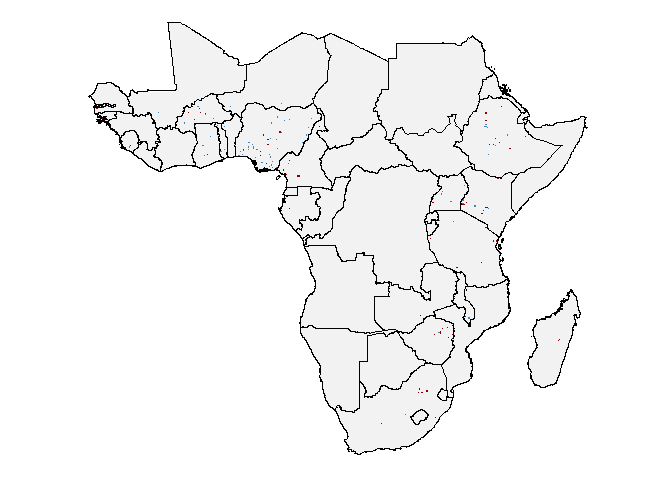
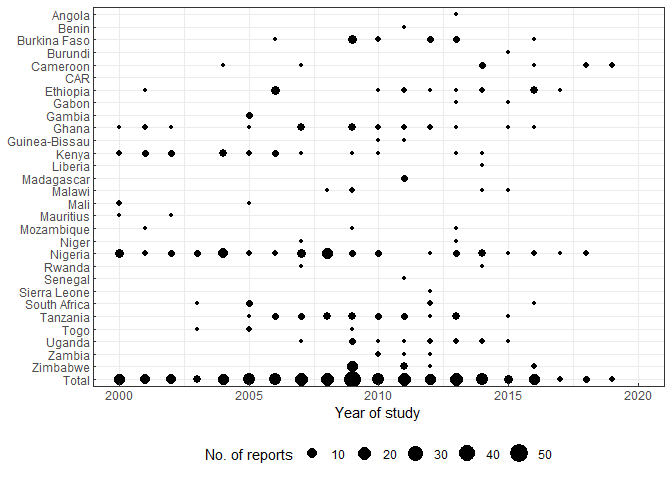
README updated

diff --git a/README.md b/README.md
@@ -9,7 +9,10 @@ Africa
 source("R/util.R") # this has ggplot theme, theme_map() 
 library(tidyverse) # dplyr and ggplot2 packages are used
 library(data.table) # fread function
-library(raster) # we sometimes added the pkg name to the command for clarity
+library(raster) # raster 
+library(countrycode) # iso3c codes
+library(sf) # st_contains function to check if the point is inside a polygon
+library(gridExtra) # multiple plots on a single page
 ```
 
 #### Figure 2A
@@ -50,7 +53,7 @@ p
 #### Figure 2B
 
 ``` r
-d %>% 
+d %>%
   group_by(COUNTRY, YEAR_PUBLICATION) %>%
   summarize(count=n()) -> d_co_yr
 
@@ -67,14 +70,14 @@ cntry_labels <- cntry_ordered
 cntry_labels[6] <- "CAR" # abbreviation for better displaying
 cntry_labels[25] <- "Tanzania" # abbreviation for better displaying
 
-p <- ggplot(data = d_co_yr) + 
+p <- ggplot(data = d_co_yr) +
   geom_point(aes(x = YEAR_PUBLICATION, y = COUNTRY, size = count)) +
   scale_size_continuous(limits = c(1, 50)) +
   scale_x_continuous(breaks = seq(2000, 2020, by=5), limits = c(2000, 2020)) +
-  scale_y_discrete(breaks = cntry_ordered, labels = cntry_labels) + 
+  scale_y_discrete(breaks = cntry_ordered, labels = cntry_labels) +
   labs(x="Year of publication", y = NULL, size="No. of reports" ) +
-  theme_bw() + 
-  theme(axis.ticks.length=unit(-2.75, "pt"), 
+  theme_bw() +
+  theme(axis.ticks.length=unit(-2.75, "pt"),
         legend.position = "bottom")
 p
 ```
@@ -83,11 +86,51 @@ p
 
 ``` r
 # fac <- 1.8
-# ggsave(paste0("plots/study_freq_yr_cntry_", tstamp(), ".png"), p, 
-#        width = 3.4*fac, height = 2.7*fac, units="in") 
+# ggsave(paste0("plots/study_freq_yr_cntry_", tstamp(), ".png"), p,
+#        width = 3.4*fac, height = 2.7*fac, units="in")
 ```
 
-### Figure 3
+#### Figure 2C
+
+``` r
+d %>% 
+  group_by(COUNTRY, STUDY_DATE_BEGIN) %>%
+  summarize(count=n()) -> d_co_yr
+
+d %>%
+  group_by(STUDY_DATE_BEGIN) %>%
+  summarize(count = n()) -> d_tot
+
+d_tot$COUNTRY <- "Total"
+d_co_yr <- bind_rows(d_co_yr, d_tot)
+cntry_ordered <- unique(d_co_yr$COUNTRY)
+d_co_yr$COUNTRY <- factor(d_co_yr$COUNTRY, levels = rev(cntry_ordered))
+
+cntry_labels <- cntry_ordered
+cntry_labels[6] <- "CAR" # abbreviation for better displaying
+cntry_labels[25] <- "Tanzania" # abbreviation for better displaying
+
+p <- ggplot(data = d_co_yr) + 
+  geom_point(aes(x = STUDY_DATE_BEGIN, y = COUNTRY, size = count)) +
+  scale_size_continuous(limits = c(1, 50)) +
+  scale_x_continuous(breaks = seq(2000, 2020, by=5), limits = c(2000, 2020)) +
+  scale_y_discrete(breaks = cntry_ordered, labels = cntry_labels) + 
+  labs(x="Year of study", y = NULL, size="No. of reports" ) +
+  theme_bw() + 
+  theme(axis.ticks.length=unit(-2.75, "pt"), 
+        legend.position = "bottom")
+p
+```
+
+![](README_files/figure-gfm/unnamed-chunk-4-1.png)<!-- -->
+
+``` r
+fac <- 1.8
+ggsave(paste0("plots/study_freq_stydtyr_cntry_", tstamp(), ".png"), p,
+       width = 3.4*fac, height = 2.7*fac, units="in")
+```
+
+#### Figure 3A
 
 Plot the grid cells of typhoid occurrence on the map
 
@@ -149,8 +192,144 @@ p <- ggplot(rptsdf) +
 p
 ```
 
-![](README_files/figure-gfm/unnamed-chunk-4-1.png)<!-- -->
+![](README_files/figure-gfm/unnamed-chunk-5-1.png)<!-- -->
 
 ``` r
 # ggsave(paste0("figs/occ_grids_", tstamp(), ".png"), p, width=7.7, height=7.3, units="in")
 ```
+
+#### Figure 3B-D
+
+Plot the grid cells of typhoid occurrence on the map of Nigeria
+
+``` r
+rst <- readRDS("data/elevation_20km_africa.rds")
+afss <- readRDS("data/africa_sub_Sahara_adm0_shp.rds")
+
+dculture <- d[grepl("culture", DIAGNOSTIC_METHOD_SUMMARY, ignore.case = TRUE)]
+dother <-  d[!grepl("culture", DIAGNOSTIC_METHOD_SUMMARY, ignore.case = TRUE)]
+
+# culture-based occurrence
+dculture %>% 
+  filter(!is.na(LONGITUDE)) %>% 
+  distinct(LONGITUDE, .keep_all = TRUE) -> dculture2
+
+# occurrence matrix
+occmat <- data.frame(X = as.double(dculture2$LONGITUDE),
+                     Y = as.double(dculture2$LATITUDE))
+occmat <- occmat[!is.na(occmat$X) & !is.na(occmat$Y), ]
+
+dother %>%
+  mutate(LONGITUDE=as.double(LONGITUDE), LATITUDE=as.double(LATITUDE)) %>%
+  filter(!is.na(LONGITUDE) & !is.na(LATITUDE)) %>% 
+  distinct(LONGITUDE, .keep_all = TRUE) -> dother2
+
+occmat2 <- data.frame(X = dother2$LONGITUDE, Y = dother2$LATITUDE)
+occmat2 <- occmat2[!is.na(occmat2$X) & !is.na(occmat2$Y), ]
+
+cnames <- c("Nigeria", "Kenya", "Tanzania, United Republic of") 
+plist <- vector("list", length(cnames))
+for (ii in 1:length(cnames)){
+  cname <- cnames[ii]
+  iso3c <- countrycode(cname, 'country.name', 'iso3c')
+  cntry <- afss[afss$NAME_0 == cname,]
+  r <- crop(rst, extent(cntry), snap="out")                
+  # r <- mask(r, cntry)
+  r <- setValues(r, 0)
+  # set the value to 1 for the grid cell of culture-based occurrence
+  for (i in 1:nrow(occmat)){
+    cells <- raster::extract(r, occmat[i,], df=TRUE, cellnumbers=TRUE)
+    raster::values(r)[unlist(cells$cell)] <- 1 
+  }
+  
+  # set the value to 2 for the grid cells of non-culture-based occurrence
+  for (i in 1:nrow(occmat2)){
+    cells <- raster::extract(r, occmat2[i,], df = TRUE, cellnumbers = TRUE)
+    values(r)[unlist(cells$cell)] <- 2 
+  }
+  
+  ## masks the grids that are outside the polygon
+  r <- mask(r, cntry)
+  
+  rpts <- rasterToPoints(r)
+  rptsdf <- as.data.frame(rpts)
+  colnames(rptsdf) <- c("lon", "lat", "occ")
+  rptsdf$occ <- as.factor(rptsdf$occ)
+  
+  p <- ggplot(rptsdf) +
+    geom_raster(aes(lon, lat, fill=occ)) +
+    scale_fill_manual(values=c("grey95", "darkred", "steelblue"), guide="none") +
+    geom_polygon(data = cntry, aes(long, lat, group = group), 
+                 fill = NA, inherit.aes = FALSE) +
+    geom_path(data = cntry, aes(long, lat, group = group),
+              color = "black", inherit.aes = FALSE) +
+    coord_equal() + 
+    theme_map() + 
+    theme(legend.title = element_text(size=12), 
+          legend.text = element_text(size=12))+
+    ggtitle(iso3c)
+  
+  p
+  plist[[ii]] <- p
+# ggsave(paste0("figs/occ_grids_", iso3c, "_", tstamp(), ".png"), p, width=7.7, height=7.3, units="in")
+}
+grid.arrange(plist[[1]], plist[[2]], plist[[3]], nrow=2)
+```
+
+![](README_files/figure-gfm/unnamed-chunk-6-1.png)<!-- -->
+
+### Number of points for the country
+
+``` r
+afss <- readRDS("data/africa_sub_Sahara_adm0_shp.rds")
+dculture <- d[grepl("culture", DIAGNOSTIC_METHOD_SUMMARY, ignore.case = TRUE)]
+dother <-  d[!grepl("culture", DIAGNOSTIC_METHOD_SUMMARY, ignore.case = TRUE)]
+
+# culture-based occurrence
+dculture %>% 
+  filter(!is.na(LONGITUDE)) %>% 
+  distinct(LONGITUDE, .keep_all = TRUE) -> dculture2
+
+# occurrence matrix
+occmat <- data.frame(X = as.double(dculture2$LONGITUDE),
+                     Y = as.double(dculture2$LATITUDE))
+occmat <- occmat[!is.na(occmat$X) & !is.na(occmat$Y), ]
+# conver the data frame to a spatial object to find the points wthin a polygon
+xy <- occmat[,c(1,2)]
+spdf <- SpatialPointsDataFrame(coords = xy, 
+                               data = occmat,
+                               proj4string = CRS("+proj=longlat +datum=WGS84 +ellps=WGS84 +towgs84=0,0,0"))
+
+dother %>%
+  mutate(LONGITUDE=as.double(LONGITUDE), LATITUDE=as.double(LATITUDE)) %>%
+  filter(!is.na(LONGITUDE) & !is.na(LATITUDE)) %>% 
+  distinct(LONGITUDE, .keep_all = TRUE) -> dother2
+
+occmat2 <- data.frame(X = dother2$LONGITUDE, Y = dother2$LATITUDE)
+occmat2 <- occmat2[!is.na(occmat2$X) & !is.na(occmat2$Y), ]
+
+xy2 <- occmat2[,c(1,2)]
+spdf2 <- SpatialPointsDataFrame(coords = xy2, 
+                               data = occmat2,
+                               proj4string = CRS("+proj=longlat +datum=WGS84 +ellps=WGS84 +towgs84=0,0,0"))
+
+df <- data.frame(
+  country = c("Nigeria","Kenya", "Tanzania, United Republic of"),
+  iso3c = NA,
+  points_within = 0)
+for (i in 1:nrow(df)) {
+  cname <- df$country[i]
+  df$iso3c[i] <- countrycode(cname, 'country.name', 'iso3c')
+  cntry <- afss[afss$NAME_0 == cname,]
+  pts_within <- st_contains(st_as_sf(cntry), st_as_sf(spdf))
+  # length(pts_within)
+  pts_within2 <- st_contains(st_as_sf(cntry), st_as_sf(spdf2))
+  df$points_within[i] <- length(pts_within[[1]]) + length(pts_within2[[1]])
+}
+df
+```
+
+    ##                        country iso3c points_within
+    ## 1                      Nigeria   NGA            85
+    ## 2                        Kenya   KEN            24
+    ## 3 Tanzania, United Republic of   TZA            23
